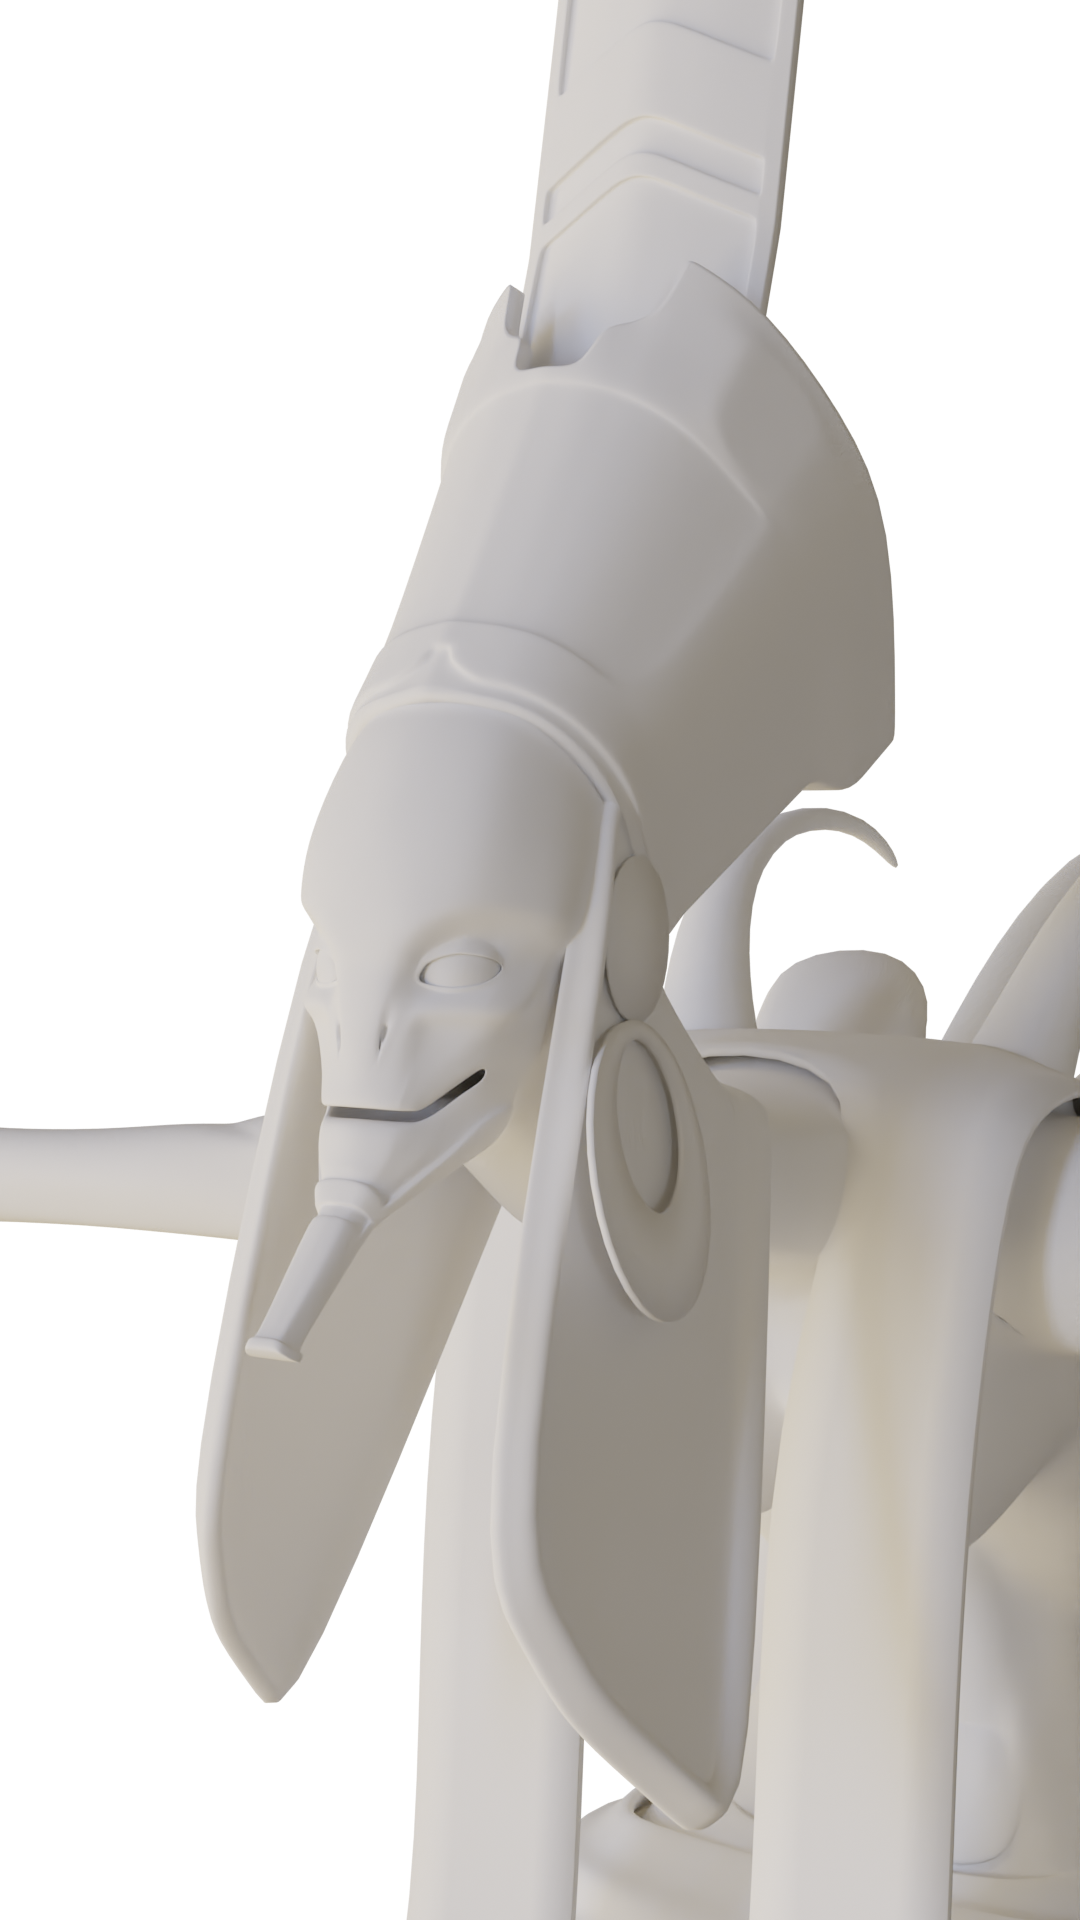
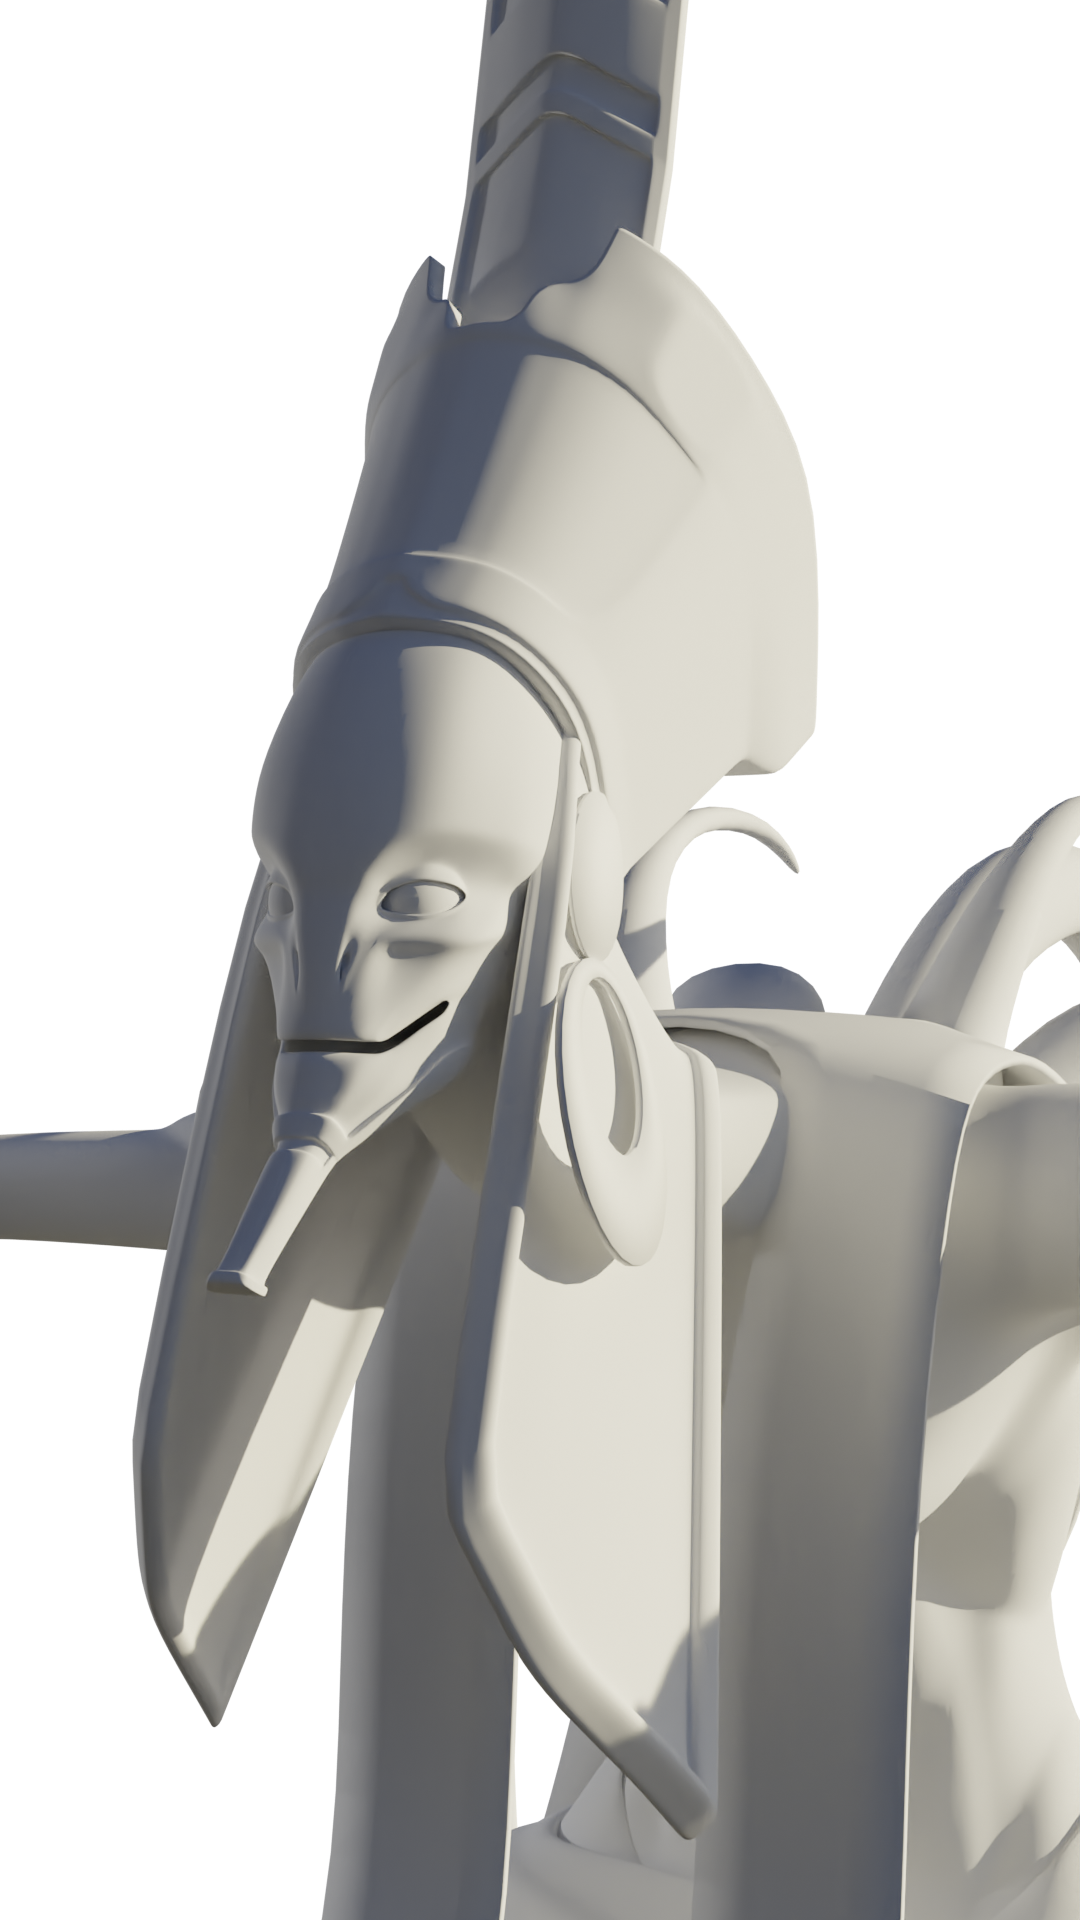
edited Naga Snake

diff --git a/content/portfolio/Naga Snake.md b/content/portfolio/Naga Snake.md
@@ -1,7 +1,7 @@
 ---
 title: "Alexander Shatohin, Naga Snake - Modeling"
 draft: false
-image: "/imgs/Naga-Snake-DemoRender.png"
+image: "/imgs/NagaSnakePics/NagaSnake_Render.002.png"
 root: "/static/"
 showonlyimage: false
 years: ["2019"]
